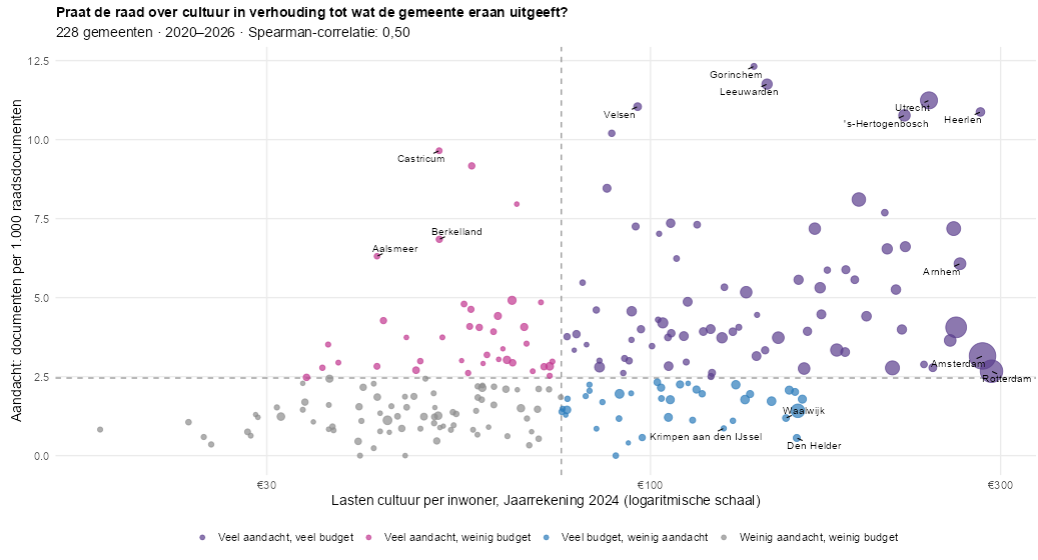
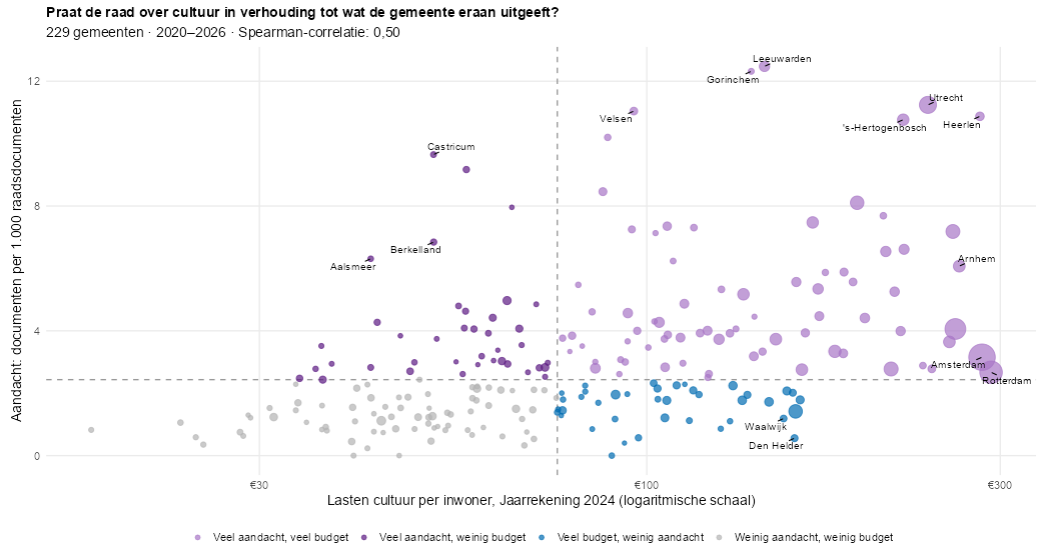
Nieuwe screenshots en projectpagina bijgewerkt (#7)
- Screenshots van de huidige app (huisstijl, ranking met bandbreedte,
  samenvatting in het profiel); profiel ingekort.
- Projectpagina in de kleuren en lettertypen van het dashboard, actuele
  functies en cijfers (~15% dubbele bijlagen, 95%-bandbreedte), sectie
  'Onder de motorkap' en volledige pakketlijst.

diff --git a/docs/index.html b/docs/index.html
@@ -5,44 +5,48 @@
   <meta name="viewport" content="width=device-width, initial-scale=1">
   <title>Cultuur in de raad</title>
   <meta name="description" content="Dashboard dat live Nederlandse raadsdocumenten doorzoekt op kunst- en cultuurthema's en de aandacht naast het cultuurbudget van gemeenten zet.">
+  <link rel="preconnect" href="https://fonts.gstatic.com" crossorigin>
+  <link rel="stylesheet" href="https://fonts.googleapis.com/css2?family=Barlow:wght@500;600;700&family=Heebo:wght@400;500;700&display=swap">
   <style>
+    /* Zelfde kleuren en lettertypen als het dashboard */
     :root {
-      --bg: #fbfaf9;
-      --tekst: #1f1d1d;
-      --zacht: #5c5657;
-      --accent: #a3276f;
-      --accent-zacht: #f7e3ee;
+      --bg: #fafafa;
+      --tekst: #272727;
+      --zacht: #5a5a5a;
+      --accent: #5c1a82;
+      --accent-zacht: #efe6f5;
       --kaart: #ffffff;
-      --rand: #e8e2e4;
+      --rand: #e4e0e8;
       --max: 1040px;
     }
     @media (prefers-color-scheme: dark) {
       :root:not([data-theme="light"]) {
-        --bg: #151314;
-        --tekst: #efeaec;
-        --zacht: #b3a9ad;
-        --accent: #e577b5;
-        --accent-zacht: #3a1f2e;
-        --kaart: #1f1c1e;
-        --rand: #342e31;
+        --bg: #141216;
+        --tekst: #eeebf0;
+        --zacht: #b0a9b5;
+        --accent: #c9a3e0;
+        --accent-zacht: #2e2138;
+        --kaart: #1e1b21;
+        --rand: #342e39;
       }
     }
     :root[data-theme="dark"] {
-      --bg: #151314;
-      --tekst: #efeaec;
-      --zacht: #b3a9ad;
-      --accent: #e577b5;
-      --accent-zacht: #3a1f2e;
-      --kaart: #1f1c1e;
-      --rand: #342e31;
+      --bg: #141216;
+      --tekst: #eeebf0;
+      --zacht: #b0a9b5;
+      --accent: #c9a3e0;
+      --accent-zacht: #2e2138;
+      --kaart: #1e1b21;
+      --rand: #342e39;
     }
     * { box-sizing: border-box; }
     body {
       margin: 0;
       background: var(--bg);
       color: var(--tekst);
-      font: 17px/1.6 system-ui, -apple-system, "Segoe UI", Roboto, sans-serif;
+      font: 17px/1.6 Heebo, system-ui, -apple-system, "Segoe UI", Roboto, sans-serif;
     }
+    h1, h2, h3, .label, .knop, .cijfer { font-family: Barlow, system-ui, sans-serif; }
     main, header, footer { max-width: var(--max); margin: 0 auto; padding: 0 16px; }
     header { padding-top: 56px; padding-bottom: 24px; }
     .label {
@@ -66,6 +70,7 @@
     }
     figcaption { font-size: 14px; color: var(--zacht); margin-top: 8px; }
     .raster { display: grid; grid-template-columns: repeat(auto-fit, minmax(280px, 1fr)); gap: 16px; }
+    .raster.vier { grid-template-columns: repeat(auto-fit, minmax(210px, 1fr)); }
     .blok {
       background: var(--kaart); border: 1px solid var(--rand); border-radius: 10px;
       padding: 16px 18px;
@@ -107,15 +112,19 @@
 
   <main>
     <figure>
-      <img src="img/kaart.png" alt="Kaart van Nederland met gemeenten ingekleurd naar het aantal raadsdocumenten over cultuurthema's per 1.000 documenten, met daaronder een ranking.">
-      <figcaption>Aandacht voor amateurkunst, cultuurbeoefening en talentontwikkeling per 1.000 raadsdocumenten, 2020–2026.</figcaption>
+      <img src="img/kaart.png" alt="Dashboard met links de zoekinstellingen, een kaart van Nederland met gemeenten ingekleurd naar het aantal raadsdocumenten over cultuurthema's per 1.000 documenten, en daaronder een sorteerbare ranking met bandbreedte.">
+      <figcaption>Aandacht voor amateurkunst, cultuurbeoefening en talentontwikkeling per 1.000 raadsdocumenten, 2020–2026, met een 95%-bandbreedte per gemeente.</figcaption>
     </figure>
 
     <h2>Wat kun je ermee?</h2>
     <div class="raster">
       <div class="blok">
         <h3>Kaart en ranking</h3>
-        <p>Alle gemeenten ingekleurd: per 1.000 raadsdocumenten, per 100.000 inwoners of absoluut.</p>
+        <p>Alle gemeenten ingekleurd en gerangschikt: per 1.000 raadsdocumenten, per 100.000 inwoners of absoluut. Sorteerbaar en doorzoekbaar.</p>
+      </div>
+      <div class="blok">
+        <h3>Vergelijkbare gemeenten</h3>
+        <p>De rang binnen de eigen grootteklasse, zodat een grote stad wordt vergeleken met andere grote steden.</p>
       </div>
       <div class="blok">
         <h3>Trend en vergelijken</h3>
@@ -123,32 +132,40 @@
       </div>
       <div class="blok">
         <h3>Gemeenteprofiel</h3>
-        <p>Kerncijfers, cultuurlasten 2023–2026 en de zinnen waarin de termen voorkomen.</p>
+        <p>Kerncijfers, een samenvatting in gewone taal, cultuurlasten 2023–2026 en de zinnen waarin de termen voorkomen.</p>
       </div>
       <div class="blok">
         <h3>Aandacht vs. budget</h3>
         <p>Welke gemeenten praten veel over cultuur maar geven er weinig aan uit, en omgekeerd?</p>
       </div>
+      <div class="blok">
+        <h3>Uitleg en export</h3>
+        <p>De methode in gewone taal, CSV- en PNG-export en een deelbare link die de zoekopdracht bewaart.</p>
+      </div>
     </div>
 
     <figure>
-      <img src="img/profiel.png" alt="Gemeenteprofiel van Tilburg met kerncijfers, een trendlijn naast Nederland, cultuurlasten per inwoner naast de mediaan, en de nieuwste raadsdocumenten met gemarkeerde zinnen.">
-      <figcaption>Gemeenteprofiel: kerncijfers, trend, budget en de nieuwste vermeldingen met gemarkeerde zinnen.</figcaption>
+      <img src="img/profiel.png" alt="Gemeenteprofiel van Tilburg met kerncijfers, een korte samenvatting, een trendlijn naast Nederland, cultuurlasten per inwoner naast de mediaan, en de nieuwste raadsdocumenten met gemarkeerde zinnen.">
+      <figcaption>Gemeenteprofiel: kerncijfers, samenvatting, trend, budget en de nieuwste vermeldingen met gemarkeerde zinnen.</figcaption>
     </figure>
 
     <h2>Eerlijker tellen</h2>
-    <div class="raster">
+    <div class="raster vier">
       <div class="blok">
-        <div class="cijfer">±20%</div>
-        <p>van de treffers is dezelfde bijlage bij meerdere agendapunten. Die worden samengevoegd.</p>
+        <div class="cijfer">~15%</div>
+        <p>van de treffers is dezelfde bijlage bij meerdere agendapunten. Die worden per gemeente samengevoegd, in de treffers én in de noemer.</p>
       </div>
       <div class="blok">
         <div class="cijfer">2/3</div>
         <p>van de treffers voor <em>talentontwikkeling</em> gaat niet over cultuur. Een contextfilter houdt alleen vermeldingen dicht bij cultuurwoorden over.</p>
       </div>
       <div class="blok">
+        <div class="cijfer">95%</div>
+        <p>bandbreedte (exact Poisson) bij elke waarde. Gemeenten met minder dan 10 treffers krijgen geen rang: hun plek is vooral toeval.</p>
+      </div>
+      <div class="blok">
         <div class="cijfer">per jaar</div>
-        <p>wordt gedeeld door het aantal documenten in dat jaar, zodat groei van het archief niet als groei van aandacht telt.</p>
+        <p>tellen alleen de jaren met archief mee, zodat gemeenten met een later begonnen of onvolledig archief niet benadeeld worden.</p>
       </div>
     </div>
 
@@ -162,11 +179,29 @@
       <figcaption>Aandacht in de raad naast de cultuurlasten per inwoner (jaarrekening 2024).</figcaption>
     </figure>
 
+    <h2>Onder de motorkap</h2>
+    <div class="raster">
+      <div class="blok">
+        <h3>Niet-blokkerend zoeken</h3>
+        <p>Live zoekvragen aan de Elasticsearch-API lopen asynchroon (<code>ExtendedTask</code> + <code>mirai</code>), zodat andere bezoekers door kunnen werken.</p>
+      </div>
+      <div class="blok">
+        <h3>Nachtelijke voorberekening</h3>
+        <p>Een GitHub Action rekent de standaardvragen vooraf uit. De app controleert die data op versie en leeftijd en valt anders terug op live ophalen.</p>
+      </div>
+      <div class="blok">
+        <h3>Getest en veilig</h3>
+        <p>Tests zonder netwerk in CI bij elke push, ge-escapete brontekst, CSV-export beschermd tegen formule-injectie en Actions vastgezet op een commit-SHA.</p>
+      </div>
+    </div>
+
     <h2 id="starten">Zelf starten</h2>
     <p>Je hebt R 4.4 of nieuwer nodig. Installeer de pakketten en start de app vanuit de map van het project:</p>
-<pre><code>install.packages(c("shiny", "httr2", "jsonlite", "dplyr", "tidyr", "leaflet",
-                   "ggplot2", "ggrepel", "cbsodataR", "sf", "cachem"))
+<pre><code>install.packages(c("shiny", "bslib", "httr2", "jsonlite", "dplyr", "tidyr",
+                   "leaflet", "ggplot2", "ggrepel", "DT", "cbsodataR", "sf",
+                   "cachem", "mirai"))
 shiny::runApp()</code></pre>
+    <p>Meer over de methode, de tests en de opzet staat in de <a href="https://github.com/alex-janse/cultuur-in-de-raad#readme">README</a>.</p>
 
     <h2>Kanttekeningen</h2>
     <ul>
